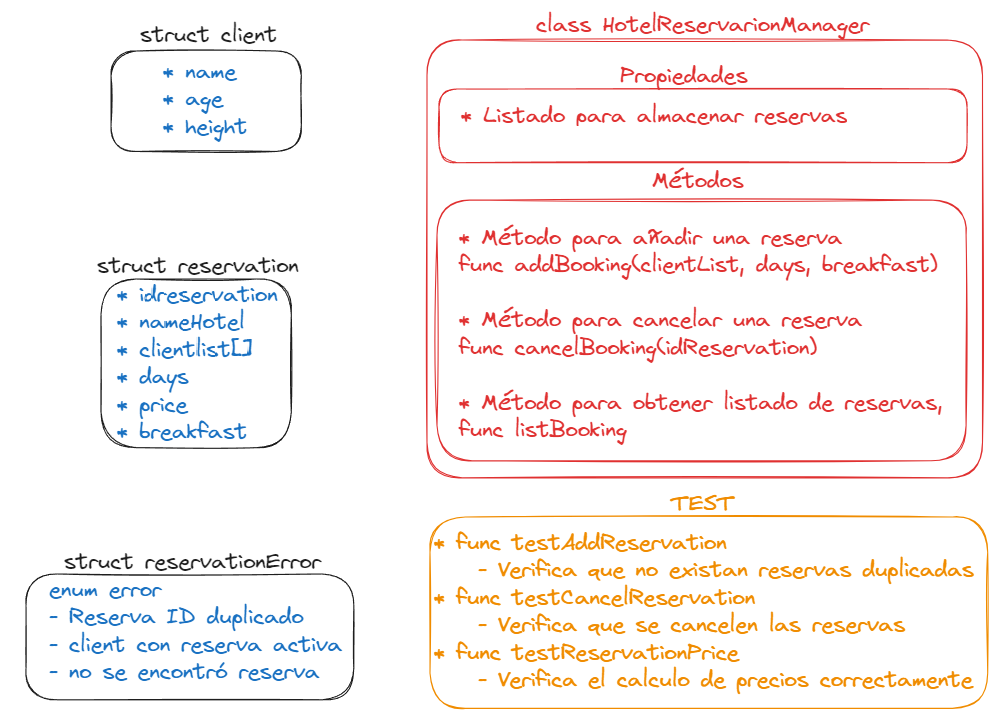
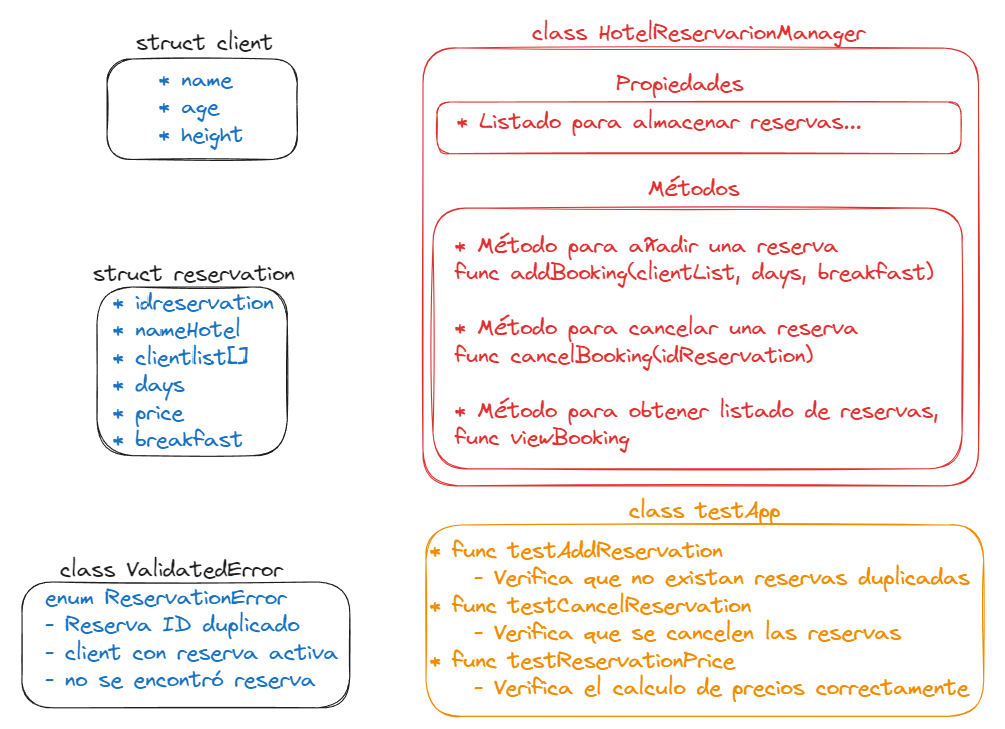
Finalización

diff --git a/PracticaSwift.playground/Contents.swift b/PracticaSwift.playground/Contents.swift
@@ -1,25 +1,39 @@
 import Foundation
 
+/*
+ NUNCA HE TRABAJADO CON CLASES, Y VENGO DE VB.NET. ME CUESTA TODAVIA INTRODUCIR
+ VARIABLES PUBLICAS ACCESIBLES PARA EL PROYECTO. POR ESO LAS HE PUESTO DONDE SE
+ QUE NO ME FALLARIAN.
+ */
 var countIdBooking: Int = 0
 var listBooking: [Reservation] = []
+var listClient: [Client] = []
+var clientBooking: [Client] = []
+
 
 /// Struct para instanciar los clientes
-struct Client{
+struct Client: Equatable{
     let name: String
     let age: Int
     let height: Double
+    
+    init (name: String, age: Int, height: Double){
+        self.name = name
+        self.age = age
+        self.height = height
+    }
 }
 
 /// Struct para instanciar las Reservas
 struct Reservation{
     let idReservation: Int
     let nameHotel: String = "Kamisama"
-    let clientList:[String]
+    let clientList:[Client]
     let days: Int
     let price: Double
     let breakfast: Bool
     
-    init(idReservation: Int, clientList: [String], days: Int, price: Double, breakfast: Bool){
+    init(idReservation: Int, clientList: [Client], days: Int, price: Double, breakfast: Bool){
         self.idReservation = idReservation
         self.clientList = clientList
         self.days = days
@@ -30,46 +44,59 @@ struct Reservation{
 
 /// Clase Principal con las Funciones de la aplicación
 class HotelReservationManager{
-
+           
+        /// Crea un registro de los datos del cliente
+    func addClient(name: String, age: Int, height: Double){
+        // Buscamos en el listado de clientes para las reservas, que no exista otro cliente con los mismos datos
+        do{
+            let validate = ValidateError()
+            try validate.validateClient(name: name, age: age, height: height)
+            // Agregamos el cliente, si no existe en la lista de clientes para Reservas
+            listClient.append(Client(name: name, age: age, height: height))
+            clientBooking.append(Client(name: name, age: age, height: height))
+        } catch ValidateError.ReservationError.ErrorClientDuplicate{
+            print(ValidateError.ReservationError.ErrorClientDuplicate.errorDescription!)
+        } catch {
+        assertionFailure("Error desconocido, póngase en contacto con el administrador y rece")
+        }
+    }
+    
     /// Crea una Reserva Nueva
-    func addBooking(clientList: [String], days: Int, breakfast: Bool){
+    func addBooking(clientList: [Client], days: Int, breakfast: Bool){
         
-        // Ver que no existan otras reservas con esos clientes. Si existen, salir
-        if searchClient(clientList: clientList) == true {
-            print ("Ya existe una reserva para alguno de los cliente")
-        } else {
-            
-            // Si no hay reservas a su nombre, crear un nuevo ID
+        do{
+            // Si el cliente no está en el listado de clientes Reservas, crear una nueva reserva
             countIdBooking += 1
+            let validate = ValidateError()
+            try validate.validateIDbooking(idBooking: countIdBooking)
             
             // Contar el numero de clientes
-            let totalClient = clientList.count
+            let totalClient = clientBooking.count
             
             // Calcular el precio de la reserva
             let totalPrice: Double =  calcPrice(totalClient: totalClient, days: days , breakfast: breakfast)
             
             // Crear la Reserva
-            listBooking.append(Reservation(idReservation: countIdBooking, clientList: clientList, days: days, price: totalPrice, breakfast: breakfast))
+            listBooking.append(Reservation(idReservation: countIdBooking, clientList: clientBooking, days: days, price: totalPrice, breakfast: breakfast))
+            
+            // Borra la variable Temporal, con los clientes asociados a la reserva.
+            clientBooking.removeAll()
+            
+            // Muestra la Reserva
+            print("Nº Reserva: \(listBooking.last!.idReservation), Hotel: \(listBooking.last!.nameHotel), Días: \(listBooking.last!.days), Precio : \(listBooking.last!.price), Desayuno Incluído: \(listBooking.last!.breakfast)")
         }
-        
-    }
-    
-    /// Busca si alguno de los clientes facilitados, está presente en alguna reserva
-    func searchClient(clientList: [String]) -> Bool {
-        var isInclude: Bool = false
-        
-        // Iteramos por la Lista de reservas
-        for reservation in listBooking {
-            // iteramos por la lista de clientes
-            for client in reservation.clientList {
-                // Realizamos la comparación mediante contains y un closures, que nos devolverá un booleano
-                isInclude = clientList.contains{elemento in return client.contains(elemento)}
-            }
+        catch ValidateError.ReservationError.ErrorClientDuplicate{
+            print(ValidateError.ReservationError.ErrorClientDuplicate.errorDescription!)
         }
-        return isInclude
+        catch ValidateError.ReservationError.ErrorBookingExist {
+            print(ValidateError.ReservationError.ErrorBookingExist.errorDescription!)
+        }
+        catch {
+            assertionFailure("Error desconocido, póngase en contacto con el administrador y rece")
+        }
     }
-    
-    /// Calcula el precio de la habitación
+        
+       /// Calcula el precio de la habitación
     func calcPrice(totalClient: Int, days: Int ,  breakfast: Bool) -> Double{
         let priceRoom: Double = 20
         let priceBreakfastYes: Double = 1.25
@@ -88,16 +115,25 @@ class HotelReservationManager{
     /// Cancela una reserva
     func cancelBooking(idReservation: Int){
         // Verificamos si existe una reserva con ese ID
-        for (index,reservation) in listBooking.enumerated() {
-            // Buscamos si se encuentra la reserva
-            if reservation.idReservation == idReservation {
-                // Borramos la reserva
-                listBooking.remove(at: index)
-               } else {
-                print("No existe ninguna reserva con Número \(idReservation)")
+        do {
+            let validateBooking = ValidateError()
+            try validateBooking.validateCancelBooking(idBooking: idReservation)
+            // Si continua, existe una reserva con ese ID
+            for (index,reservation) in listBooking.enumerated() {
+                // Buscamos si se encuentra la reserva
+                if reservation.idReservation == idReservation {
+                    // Borramos la reserva
+                    listBooking.remove(at: index)
+                    countIdBooking -= 1
+                }
             }
         }
-       
+        catch ValidateError.ReservationError.ErrorBookingNoExist {
+            print(ValidateError.ReservationError.ErrorBookingNoExist.errorDescription!)
+        }
+        catch {
+            assertionFailure("Error desconocido, póngase en contacto con el administrador y rece")
+        }
     }
     
     // Obtiene un listado de Reservas
@@ -108,69 +144,147 @@ class HotelReservationManager{
             
             for client in reservation.clientList {
                 print("Nombre de los clientes: \(client)")
+                
             }
         }
     }
     
 }
 
+/// Clase para gestión de Errores
+public class ValidateError{
+    
+    public enum ReservationError: LocalizedError {
+        case ErrorClientDuplicate
+        case ErrorBookingExist
+        case ErrorBookingNoExist
+        
+    public var errorDescription: String? {
+        switch self {
+            case .ErrorClientDuplicate:
+                return ("Cliente Duplicado")
+            case .ErrorBookingExist:
+                return ("Número de Reserva duplicado")
+            case .ErrorBookingNoExist:
+                return ("Número de Reserva NO existe")
+            }
+        }
+    }
+    
+    /// Busca si alguno de los clientes facilitados, está presente en lista de clientes de reserva
+    public func validateClient(name: String, age: Int, height: Double) throws{
+        // Buscamos en el listado de clientes para las reservas, que no exista otro cliente con los mismos datos
+        if (listClient.contains{ $0.name == name && $0.age == age && $0.height == height }) {
+            throw ReservationError.ErrorClientDuplicate
+        }
+    }
+    
+       
+    /// Busca si existe un ID en las reservas igual que el que acabamos de generar
+    public func validateIDbooking(idBooking: Int) throws {
+                
+        // Iteramos por la Lista de reservas
+        for reservation in listBooking {
+            // Buscamos si se encuentra la reserva
+            if reservation.idReservation == idBooking {
+                throw ReservationError.ErrorBookingExist
+            }
+        }
+    }
+    
+    /// Buscamos si existe una Reserva antes de Eliminarla
+    public func validateCancelBooking(idBooking: Int) throws {
+        
+        // Iteramos por la Lista de reservas
+        for reservation in listBooking {
+            // Buscamos si se encuentra la reserva
+            if reservation.idReservation == idBooking {
+                return
+            }
+        }
+        throw ReservationError.ErrorBookingNoExist
+    }
+}
 
 ///  Clase para ejecutar los Test
 class testApp{
+    
     func testAddReservartion(){
+        // Creamos Clientes para la reserva
+        let clientTest = HotelReservationManager()
+        clientTest.addClient(name: "Cliente_1", age: 45, height: 180)
+        clientTest.addClient(name: "Cliente_2", age: 46, height: 190)
         
+        
+        // Verificar Alta Nueva Reserva
+        let test1 = HotelReservationManager()
+        test1.addBooking(clientList: clientBooking, days: 3, breakfast: true)
+        assert(countIdBooking == 1, "Contador debe incrementarse a 1")
+        assert(listBooking.count == 1, "Tiene que existir la reserva creada")
+        assert(listBooking[0].idReservation == 1, " El id de la Reserva tiene que ser 1")
+        assert(listBooking[0].days == 3, "Los días tienen que ser igual a los de prueba")
+        assert(listBooking[0].price == 150, "El precio tiene que ser igual al de prueba")
+        assert(listBooking[0].breakfast == true, "El desayuno tiene que ser igual al de prueba")
+        
+        // Verificar que no existan varias reservas para el mismo cliente.
+        let test2 = HotelReservationManager()
+        test2.addClient(name: "Cliente_1", age: 45,height: 180) // APARECE MENSAJE EN LA TERMINAL INDICANDO CLIENTE DUPLICADO
+        assert(clientBooking.count == 0, "El contador de clientes permanece 0, y no validó el cliente duplicado")
+                
+        // Verificar Alta Nuevas Reservas
+        let test3 = HotelReservationManager()
+        test3.addClient(name: "Cliente_3", age: 47,height: 200)
+        test3.addBooking(clientList: clientBooking, days: 2, breakfast: false)
+        assert(countIdBooking == 2, "Contador debe incrementarse a 2")
+        assert(listBooking.count == 2, "Tiene que existir la reserva creada")
+        assert(listBooking[1].idReservation == 2, " El id de la Reserva tiene que ser 2")
+        assert(listBooking[1].days == 2, "Los días tienen que ser igual a la instancia")
+        assert(listBooking[1].price == 40, "El precio tiene que ser igual a 20 * 1 * 2 * 1")
+        assert(listBooking[1].breakfast == false, "El desayuno tiene que ser igual a la instancia")
+
+        print ("---- testAddReservation CORRECTO ----")
     }
     
+    
     func testCancelReservation(){
+        assert(listBooking[1].idReservation == 2, " El id de la Reserva a borrar es 2 y existe")
         
+        // Eliminar la reserva Número 2
+        let test3 = HotelReservationManager()
+        test3.cancelBooking(idReservation: 2)
+                
+        //Verificar que no exista
+        assert(countIdBooking == 1, "Contador debe ser 1")
+        assert(listBooking.count == 1, "Tiene que existir solo la primera reserva creada")
+        
+        //Verificar que devuelve un error al eliminar una reserva que no existe
+        test3.cancelBooking(idReservation: 2) // APARECE MENSAJE EN LA TERMINAL INDICANDO QUE EL NUMERO DE RESERVA NO EXISTE
+        print ("---- testCancelReservation CORRECTO ----")
     }
     
     func testReservationPrice(){
+        let test1 = HotelReservationManager()
+        test1.calcPrice(totalClient: 1, days: 1, breakfast: true)
+        assert(test1.calcPrice(totalClient: 1, days: 1, breakfast: true) == 25, "20 * 1 * 1 * 1.25 = 25 ")
+        assert(test1.calcPrice(totalClient: 1, days: 1, breakfast: false) == 20, "20 * 1 * 1 * 1 = 20 ")
+        print ("---- testReservationPrice CORRECTO ----")
+        
+    /*
+     NUNCA HE REALIZADO TEST, Y DESCONOZCO COMO ACTUAR A LA FINALIZACION, SI LIMPIAR LOS REGISTROS CREADOS, POR ESO HE DEJADO
+     LA PRIMERA RESERVA CREADA
+     */
         
     }
 }
 
-func Start(){
-    // Crear Reservas
-    let test1 = HotelReservationManager()
-    test1.addBooking(clientList: ["Oscar"], days: 1, breakfast: false)
-    
-    let test2 = HotelReservationManager()
-    test2.addBooking(clientList: ["Oscar","Juan"], days: 2, breakfast: true)
-    
-    let test3 = HotelReservationManager()
-    test3.addBooking(clientList: ["Esther","Laura","Elena"], days: 3, breakfast: false)
-    
-    // Visualizar Reservas
-    test1.viewBooking()
-    
-}
-
-Start()
-
-
-
-struct startApp {
-    
-    enum optionApp: Int {
-        case add = 1
-        case cancel = 2
-        case list = 3
-        case quit = 4
-    }
-    
-    public var optionSelect: String? = nil
-    
-    func menuApp() ->Void {
-        print("\u{001B}")
-        print("FrontOffice Kamisama Hotel")
-        print("--------------------------")
-        print("\(optionApp.add.rawValue). Agregar Reserva")
-        print("\(optionApp.cancel.rawValue). Cancelar Reserva")
-        print("\(optionApp.list.rawValue). Listado de Reservas")
-        print("\(optionApp.quit.rawValue). Salir del programa")
-        print("--------------------------")
-        print("Seleccione una de las opciones:")
-        // optionSelect = readLine()
-    }
-}
+// main()
+let test1 = testApp()
+test1.testAddReservartion()
+test1.testCancelReservation()
+test1.testReservationPrice()
+print("")
+print ("*********************")
+print (" LISTADO DE RESERVAS ")
+print ("*********************")
+let view1 = HotelReservationManager()
+view1.viewBooking()

diff --git a/Readme.md b/Readme.md
@@ -1,5 +1,5 @@
-### Práctica Swift KeepCoding 2023. 
-# Profesor: Daniel Illescas Romero. 
+# Práctica Swift KeepCoding 2023. 
+### Profesor: Daniel Illescas Romero. 
 
 [Diagrama Conceptual](./assets/Diagram1.PNG)  
 
